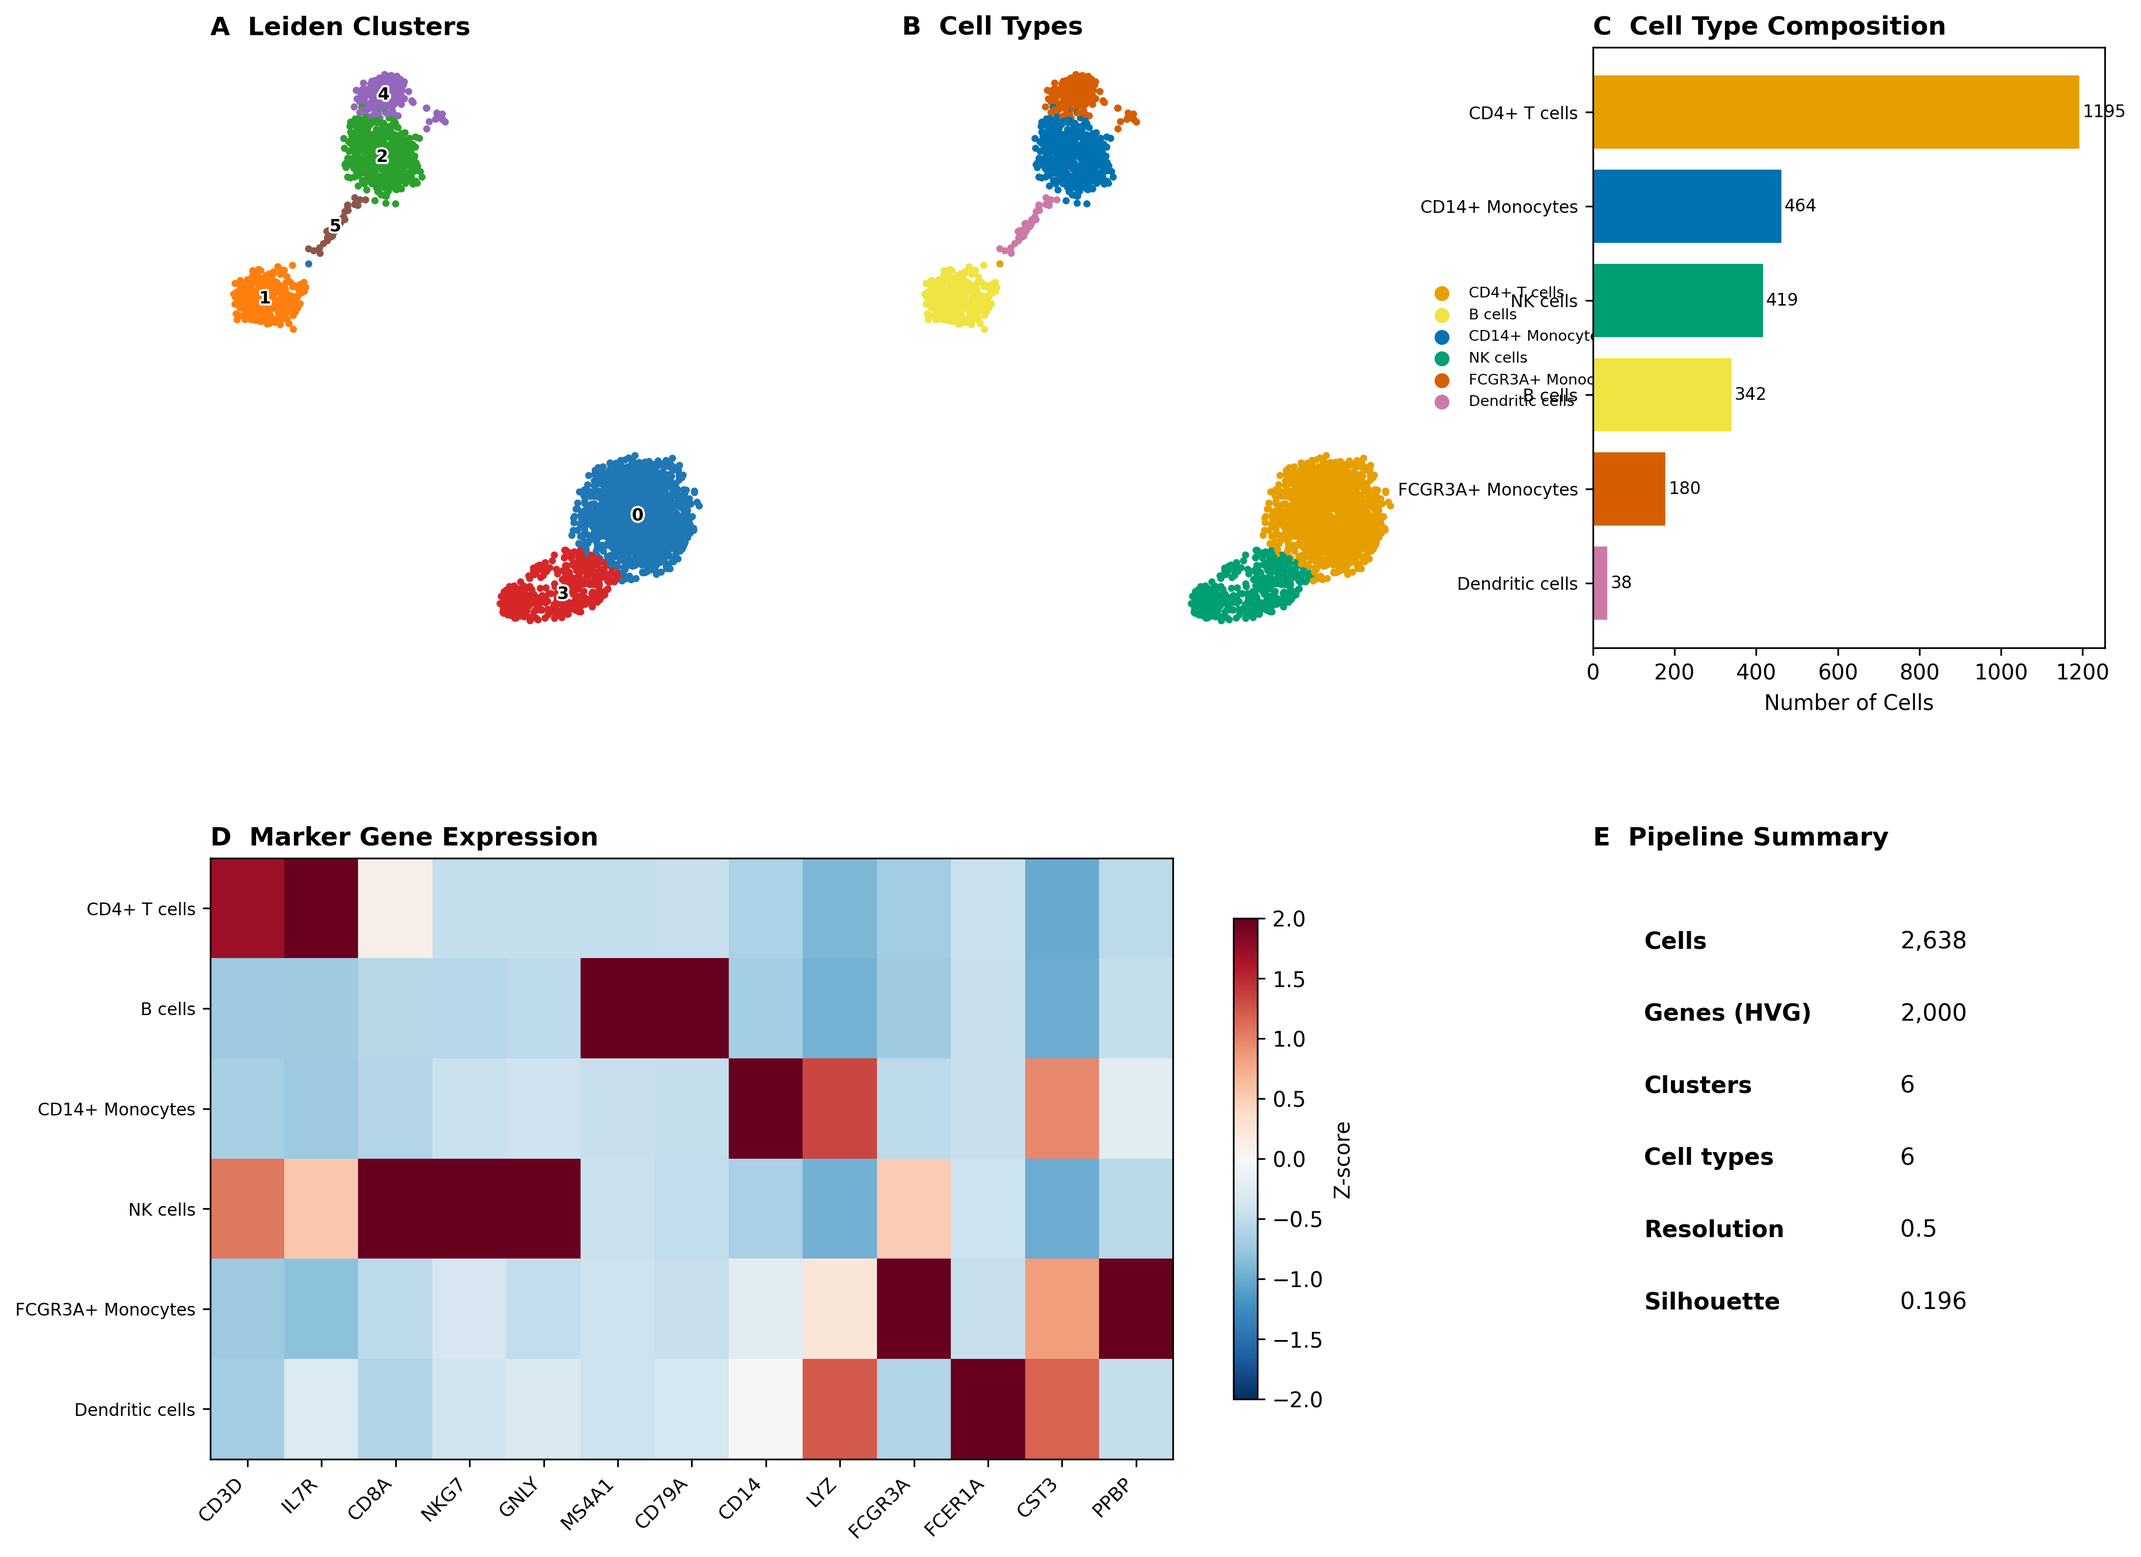
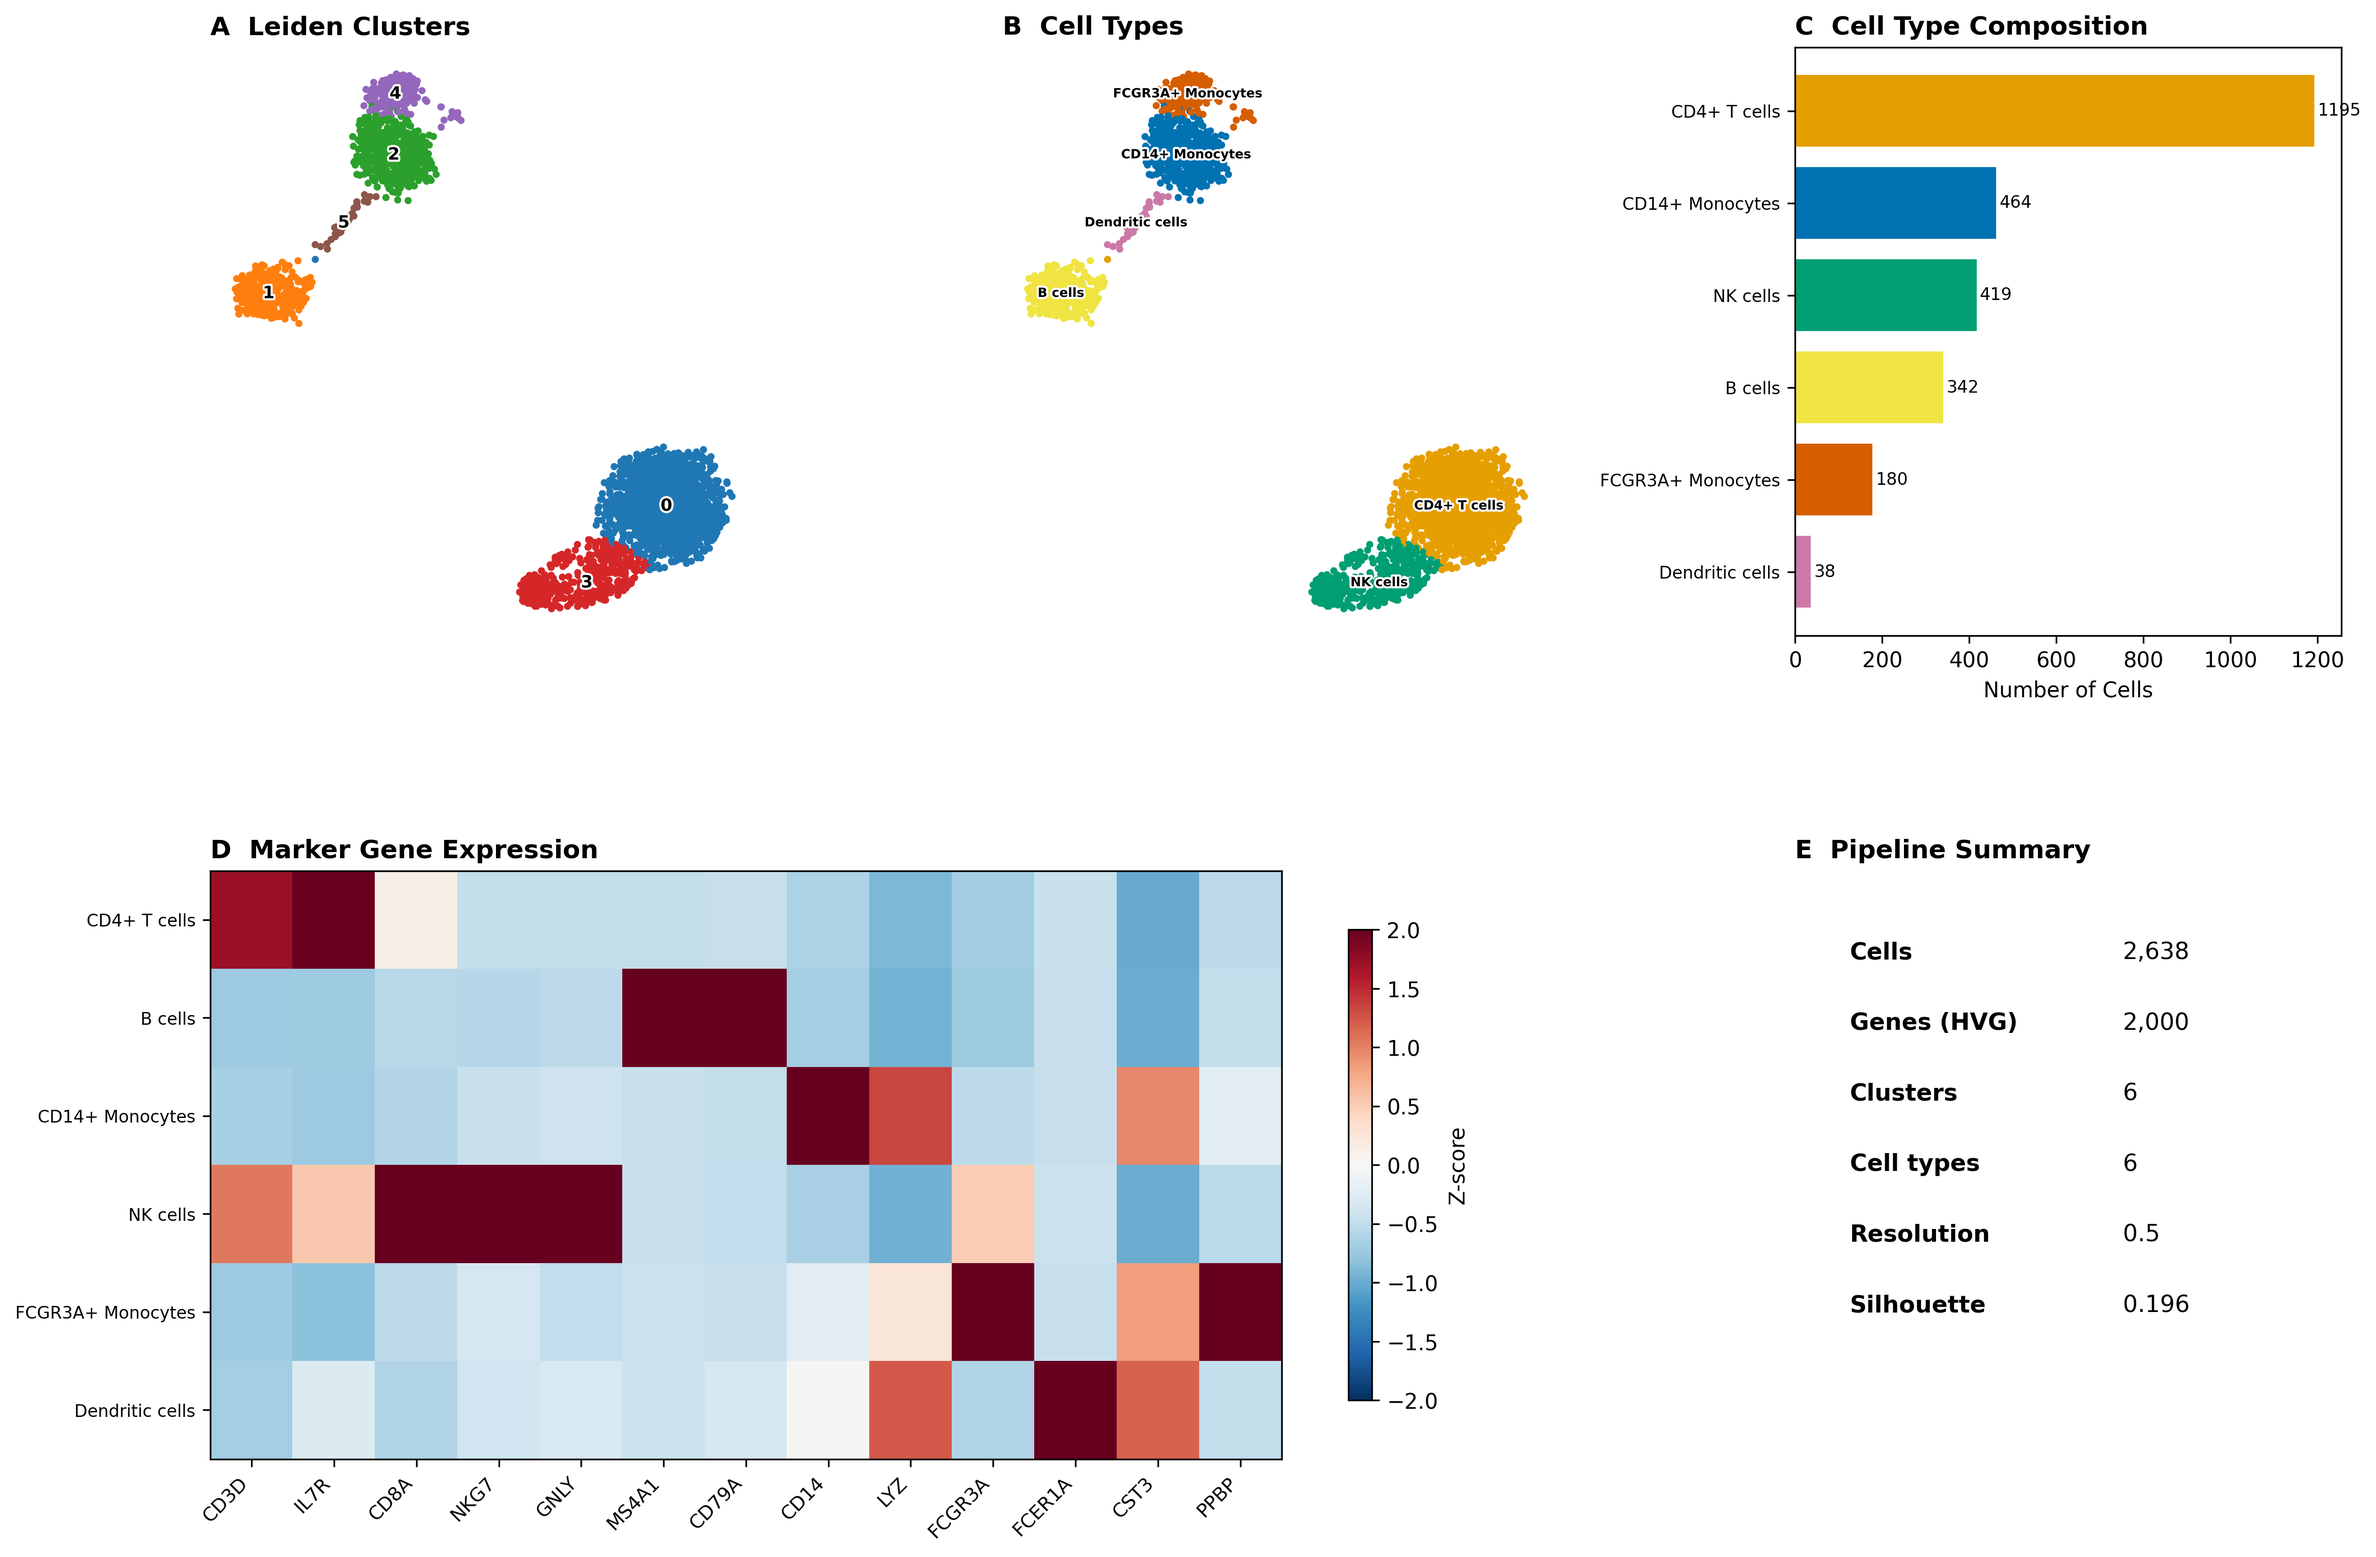
Fix legend overlap in publication figure

diff --git a/scripts/06_publication_figures.py b/scripts/06_publication_figures.py
@@ -33,8 +33,8 @@ def make_figure(adata):
     """Create a multi-panel publication figure."""
     FIG_DIR.mkdir(parents=True, exist_ok=True)
 
-    fig = plt.figure(figsize=(16, 12))
-    gs = gridspec.GridSpec(2, 3, figure=fig, hspace=0.35, wspace=0.35)
+    fig = plt.figure(figsize=(18, 12))
+    gs = gridspec.GridSpec(2, 3, figure=fig, hspace=0.4, wspace=0.45)
 
     # A: UMAP by cluster
     ax_a = fig.add_subplot(gs[0, 0])
@@ -42,13 +42,12 @@ def make_figure(adata):
                legend_fontoutline=2, frameon=False, ax=ax_a, show=False, title="")
     ax_a.set_title("A  Leiden Clusters", fontsize=12, fontweight="bold", loc="left")
 
-    # B: UMAP by cell type
+    # B: UMAP by cell type (legend on data to avoid overlap with panel C)
     ax_b = fig.add_subplot(gs[0, 1])
-    # Build palette for present cell types
     present_types = adata.obs["cell_type"].cat.categories.tolist()
     palette = [PALETTE.get(ct, "#AAAAAA") for ct in present_types]
     sc.pl.umap(adata, color="cell_type", palette=palette,
-               legend_loc="right margin", legend_fontsize=7,
+               legend_loc="on data", legend_fontsize=6, legend_fontoutline=2,
                frameon=False, ax=ax_b, show=False, title="")
     ax_b.set_title("B  Cell Types", fontsize=12, fontweight="bold", loc="left")
 
